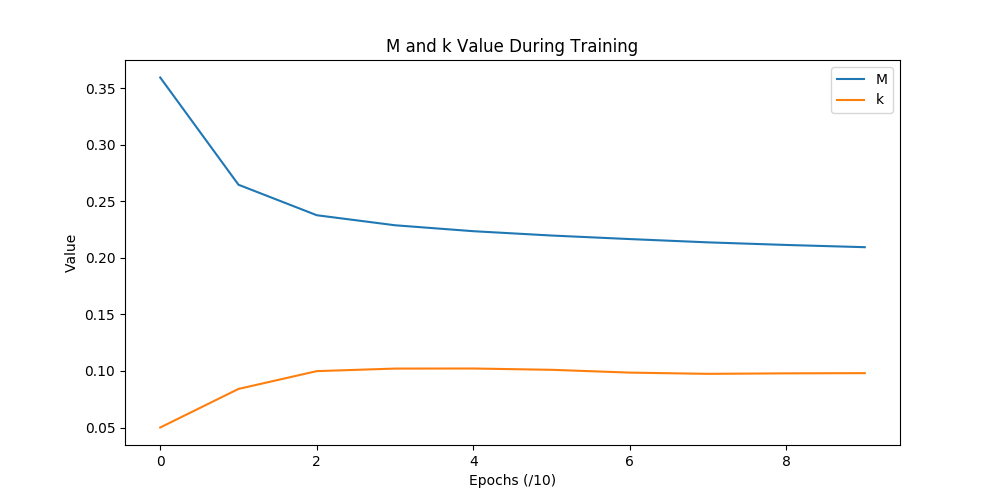
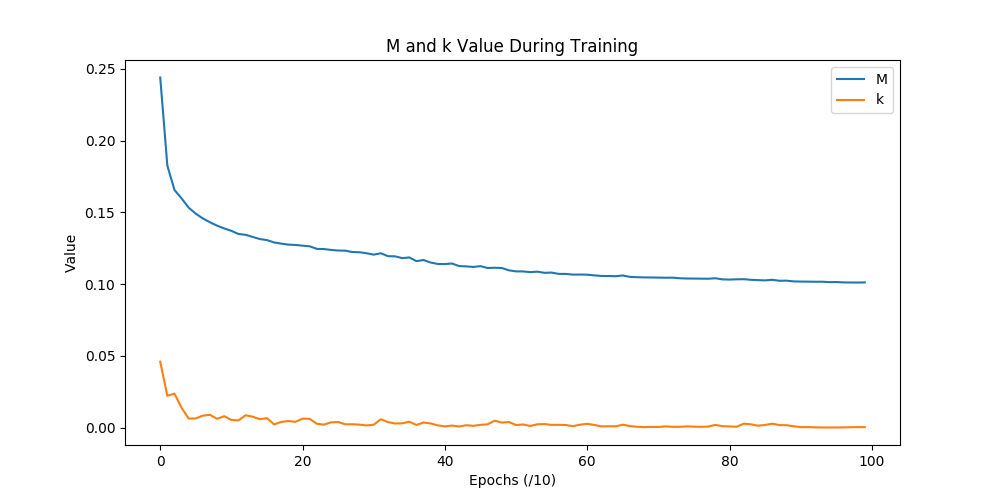
BugFix

diff --git a/W4_archi_began/began.py b/W4_archi_began/began.py
@@ -25,14 +25,14 @@ import time
 
 parser = argparse.ArgumentParser()
 parser.add_argument("--n_epochs", type=int, default=1000, help="number of epochs of training")
-parser.add_argument("--batch_size", type=int, default=16, help="size of the batches")
+parser.add_argument("--batch_size", type=int, default=64, help="size of the batches")
 parser.add_argument("--lrD", type=float, default=0.0001, help="adam: learning rate for D")
 parser.add_argument("--lrG", type=float, default=0.0001, help="adam: learning rate for G")
 parser.add_argument("--eps", type=float, default=0.00005, help="batchnorm: espilon for numerical stability")
 parser.add_argument("--b1", type=float, default=0.5, help="adam: decay of first order momentum of gradient")
 parser.add_argument("--b2", type=float, default=0.999, help="adam: decay of first order momentum of gradient")
 parser.add_argument("--n_cpu", type=int, default=8, help="number of cpu threads to use during batch generation")
-parser.add_argument("--latent_dim", type=int, default=64, help="dimensionality of the latent space")
+parser.add_argument("--latent_dim", type=int, default=50, help="dimensionality of the latent space")
 parser.add_argument("--img_size", type=int, default=128, help="size of each image dimension")
 parser.add_argument("--channels", type=int, default=3, help="number of image channels")
 parser.add_argument("--sample_interval", type=int, default=40, help="interval between image sampling")
@@ -335,7 +335,7 @@ for epoch in range(1,opt.n_epochs+1):
 		# --------------
 
 		print(
-			"[Epoch %d/%d] [Batch %d/%d] [D loss: %f] [G loss: %f] [LR: %f] [Time: %fs] -- M: %f, k: %f"
+			"[Epoch %d/%d] [Batch %d/%d] [D loss: %f] [G loss: %f] [LR: %f] [Time: %f s] -- M: %f, k: %f"
 			% (epoch, opt.n_epochs, i+1, len(dataloader), d_loss.item(), g_loss.item(), optimizer_D.param_groups[0]['lr'], time.time()-t_batch, M, k)
 		)
 	

diff --git a/W4_112_dcgan/dcgan.py b/W4_112_dcgan/dcgan.py
@@ -24,8 +24,8 @@ import matplotlib.pyplot as plt
 import time
 
 parser = argparse.ArgumentParser()
-parser.add_argument("--n_epochs", type=int, default=5000, help="number of epochs of training")
-parser.add_argument("--batch_size", type=int, default=16, help="size of the batches")
+parser.add_argument("--n_epochs", type=int, default=1000, help="number of epochs of training")
+parser.add_argument("--batch_size", type=int, default=64, help="size of the batches")
 parser.add_argument("--lrD", type=float, default=0.0004, help="adam: learning rate for D")
 parser.add_argument("--lrG", type=float, default=0.0004, help="adam: learning rate for G")
 parser.add_argument("--eps", type=float, default=0.00005, help="batchnorm: espilon for numerical stability")

diff --git a/W4.md b/W4.md
@@ -157,7 +157,7 @@ __Conclusion__ :
   - Au niveau des courbe on ne constate pas de grand changement, l'apprentissage est toujours aussi cours.
   - Le model utiliser n'est pas bon je vais tester d'autres achi plus proche du papier d'origine
   
-##### Test BEGANarchi en 128*128 epochs=2500 lr=0.0001 gamma=0.5 batch_size=16
+##### Test BEGANarchi en 128*128 epochs=2500 lr=0.0001 gamma=0.5 batch_size=16 decay_evry_Mstall
 Utilisation d'une architecture de BEGAN plus proche de celle du papier d'origine.
 Le BEGAN utiliser pour le moment ne corespond pas vraiment à celui présenter dans le papier
 
@@ -168,11 +168,11 @@ __Résultats__ :
 __Conclusion__ :
   - :
   
-##### Test DCGAN112 en 112*112 lr=0.0004 epochs=5000 batch_size=16
+##### Test DCGAN112 en 112*112 lr=0.0004 epochs=5000 batch_size=16 decay_evry_1000
 test grande taille avec les nouvelles avancées
 
 __Résultats__ :
-  - DCGAN112 : 
+  - DCGAN112 (gt-0): 
 
 __Conclusion__ :
   - :
